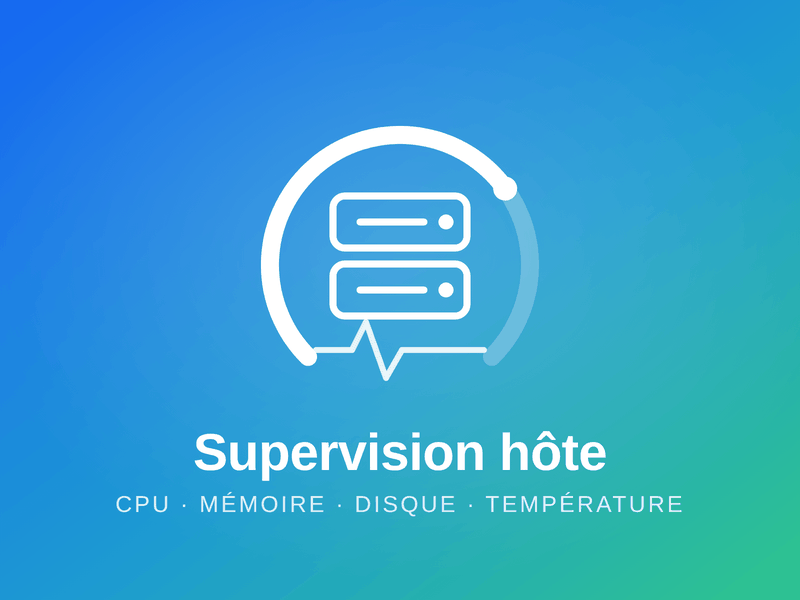
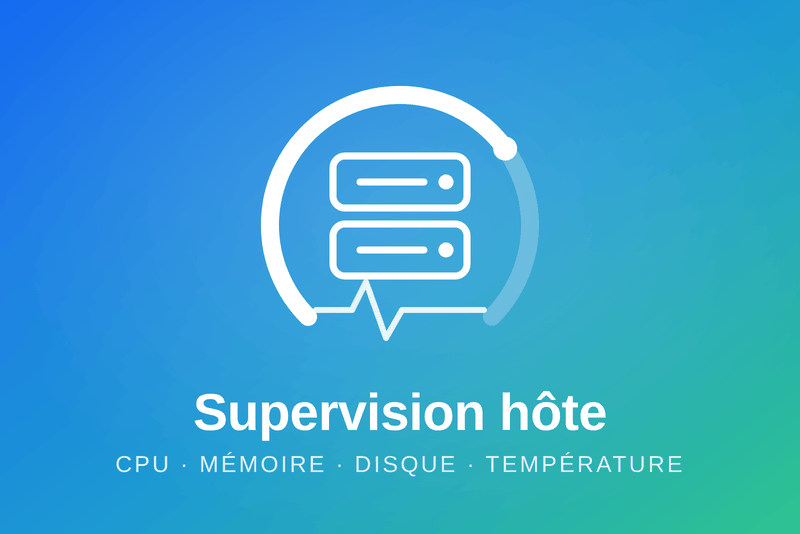
fix: couverture 800x534 et formatage du manifest à la release
Corrige les deux problèmes que le validateur du store et le CI
signalaient indépendamment de la mise à jour 4.86.

Couverture : cover.png faisait 800x600 au lieu des 800x534 exigés, donc
le store aurait remplacé le visuel par son placeholder — un simple
avertissement dans rejected.json, invisible sans aller le lire. Recadré
à 800x534 sans redimensionner (l'illustration reste au pixel près) : le
contenu occupe les lignes 126 à 515, les 66 lignes retirées sont prises
proportionnellement sur les deux marges, 40 en haut et 26 en bas, pour
que le visuel garde son centre optique. 87 Ko, sous la limite de 150 Ko.
La fonction validateCover du store accepte le nouveau fichier.

Formatage : `npm run format:check` échouait sur main depuis le commit
chore(release): 1.0.1, sur un fichier que personne n'avait édité à la
main. La cause est dans le workflow Release : jq réécrit tout le
manifest dans son propre style, chaque tableau développé sur plusieurs
lignes, là où Prettier les garde sur une ligne quand ils tiennent. Le
CI gate échouait donc mécaniquement sur chaque commit de release. Le
workflow reformate maintenant le manifest avec le Prettier épinglé du
dépôt — celui-là même que le gate exécute — juste après l'édition jq.
Vérifié en rejouant la séquence complète de release en local : sortie
propre pour format:check là où elle échouait avant.

Note : le validateur du store continuera d'afficher l'avertissement sur
[…]

diff --git a/README.md b/README.md
@@ -161,12 +161,15 @@ field — a coupling `test/manifest.test.js` pins.
 
 1. Make the repository public and add the GitHub topic
    `gladys-assistant-integration`.
-2. Replace `cover.png` (800×534 px, ≤150 KB) — the bundled one is the template's
-   plain gradient placeholder.
+2. Keep `cover.png` at **exactly 800×534 px and ≤150 KB**: any other size and
+   the store silently falls back to its own placeholder cover, with a warning
+   in `rejected.json` as the only trace.
 3. **Actions → Release → Run workflow**, pick `patch` / `minor` / `major`. The
    workflow bumps the version everywhere (`package.json` + manifest
-   `version`/`docker_image`), pushes the `vX.Y.Z` tag and builds the
-   `linux/amd64` + `linux/arm64` image to `ghcr.io`.
+   `version`/`docker_image`), reformats the manifest with Prettier (`jq` rewrites
+   it in its own style, which would fail the `format:check` CI gate on the
+   release commit), pushes the `vX.Y.Z` tag and builds the `linux/amd64` +
+   `linux/arm64` image to `ghcr.io`.
 4. The decentralized indexer picks up the new manifest version and Gladys offers
    a one-click install / update.
 
